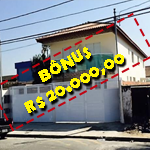
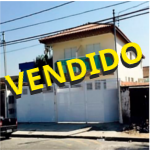
vendido

diff --git a/lancamentos.php b/lancamentos.php
@@ -100,10 +100,10 @@
         Rua Julio Pedro Pontes, 445
         Jd Monteiro da Cruz,
         Vicente de Carvalho - Sp
-        <h4>Casa 2 e 3 - <span class="text-primary">R$265.000.00</span> - <span class="text-danger">Bônus de R$20.000,00</span></h4>
+        <h4>Casa 2 e 3 - <span class="text-primary">VENDIDO</span> <span class="text-danger"></span></h4>
         Características do imóvel:
         Sobrado germinado frente, 2 quartos, lavabo, sacada, garagem privativa<br>
-        <h4>Casa 1 e 4 - <span class="text-primary">R$275.000.00</span></span> - <span class="text-danger">Bônus de R$20.000,00</span></h4>
+        <h4>Casa 1 e 4 - <span class="text-primary">VENDIDO</span></span> <span class="text-danger"></span></h4>
         Características do imóvel:
         Sobrado geminado fundo, 2 quartos, lavabo, quintal, garagem privativa.
     </div>
